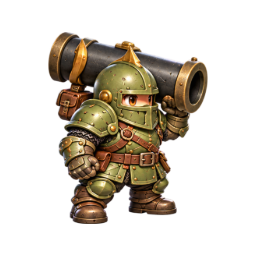
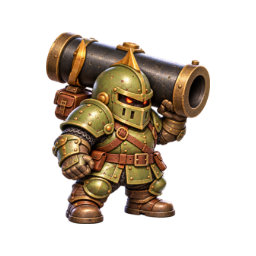
art: give deep enemy humanoids hostile faces and revise prompts

Changed region(s): [[0.1562, 0.125, 0.8438, 0.875]]

diff --git a/fushigi-enemy-c-v1/build.js b/fushigi-enemy-c-v1/build.js
@@ -27,8 +27,8 @@ function removeBackground(c){
  const full=createCanvas(original.width,original.height);full.getContext('2d').drawImage(original,0,0);removeBackground(full);
  const cc=components(full),major=cc.out.filter(o=>o.count>5000),records=[];
  for(let i=0;i<keys.length;i++){
-  const key=keys[i];let c;
-  if(i<5){
+  const key=keys[i],corrected=['ninja','caster','summoner','cannon'].includes(key),source=corrected?'source-art/'+key+'-enemy.png':i<5?'source-art/enemyC-original.png':'source-art/'+key+'.png';let c;
+  if(i<5&&!corrected){
    const [x,y,w,h]=boxes[i],chosen=major.find(o=>o.box[0]>=x&&o.box[0]<x+w&&o.box[1]>=y&&o.box[1]<y+h);
    if(!chosen)throw Error('Missing '+key);
    const keep=new Set([chosen.id]);
@@ -36,17 +36,17 @@ function removeBackground(c){
    c=createCanvas(w,h);const g=c.getContext('2d'),d=g.createImageData(w,h);
    for(let yy=0;yy<h;yy++)for(let xx=0;xx<w;xx++){const from=(y+yy)*full.width+x+xx,to=yy*w+xx;if(keep.has(cc.labels[from]))d.data.set(cc.p.subarray(from*4,from*4+4),to*4);}
    g.putImageData(d,0,0);
-  }else{const im=await loadImage(path.join(root,'source-art',key+'.png'));c=createCanvas(im.width,im.height);c.getContext('2d').drawImage(im,0,0);}
+  }else{const im=await loadImage(path.join(root,source));c=createCanvas(im.width,im.height);c.getContext('2d').drawImage(im,0,0);}
   const cs=components(c),visible=cs.out.filter(o=>o.count>=4);let x0=c.width,y0=c.height,x1=0,y1=0;
   for(const {box:b} of visible){x0=Math.min(x0,b[0]);y0=Math.min(y0,b[1]);x1=Math.max(x1,b[2]);y1=Math.max(y1,b[3]);}
   const w=x1-x0+1,h=y1-y0+1,s=Math.min(224/w,192/h),out=createCanvas(256,256),g=out.getContext('2d');
   g.imageSmoothingQuality='high';g.drawImage(c,x0,y0,w,h,128-w*s/2,224-h*s,w*s,h*s);
   const file='art/'+key+'.png',buf=out.toBuffer('image/png');fs.writeFileSync(path.join(root,file),buf);
-  records.push({key,file,width:256,height:256,anchor:[128,224],view:'SE/right-facing three-quarter',source:i<5?'source-art/enemyC-original.png':'source-art/'+key+'.png',sourceBounds:[x0,y0,w,h],scale:s,sha256:crypto.createHash('sha256').update(buf).digest('hex')});
+  records.push({key,file,width:256,height:256,anchor:[128,224],view:'SE/right-facing three-quarter',source,sourceBounds:[x0,y0,w,h],scale:s,sha256:crypto.createHash('sha256').update(buf).digest('hex')});
  }
  const hashes={};for(const f of fs.readdirSync(path.join(root,'source-art')))hashes[f]=crypto.createHash('sha256').update(fs.readFileSync(path.join(root,'source-art',f))).digest('hex');
  const ref='../fushigi-equipment-v3/assets/hero-base/SE.png';
- fs.writeFileSync(path.join(root,'manifest.json'),JSON.stringify({generator:'OpenAI image_gen',promptFile:'prompts.json',styleReference:ref,referenceSha256:crypto.createHash('sha256').update(fs.readFileSync(path.join(root,ref))).digest('hex'),sourceHashes:hashes,frames:records},null,2)+'\n');
+ fs.writeFileSync(path.join(root,'manifest.json'),JSON.stringify({generator:'OpenAI image_gen',promptFile:'prompts.json',initialPromptFile:'initial-prompt.txt',correctionPromptFile:'enemy-face-prompts.json',styleReference:ref,referenceSha256:crypto.createHash('sha256').update(fs.readFileSync(path.join(root,ref))).digest('hex'),sourceHashes:hashes,frames:records},null,2)+'\n');
  const sheet=createCanvas(1024,512),g=sheet.getContext('2d');for(let i=0;i<keys.length;i++){const im=await loadImage(path.join(root,'art',keys[i]+'.png'));g.drawImage(im,i%4*256,Math.floor(i/4)*256);}
  fs.writeFileSync(path.join(root,'enemyC.png'),sheet.toBuffer('image/png'));
  console.log('Exported 7 RGBA base sprites and enemyC sheet; anchor (128,224).');

diff --git a/tests/tools/sheets.js b/tests/tools/sheets.js
@@ -40,7 +40,7 @@ const SHEETS = [
   { id: 'bread', name: 'パン4種（小さなパン・パン・大きなパン・カビの生えたパン）', cols: 2, keys: ['bread_small', 'bread', 'bread_big', 'bread_moldy'], note: 'どれも床に置いた姿。大きさの違いが分かるように、小さなパンはマスの55%、パンは75%、大きなパンは95%、カビの生えたパンは75%の大きさにする。' },
   { id: 'enemyA', name: '敵（前半8種）', foot: true, keys: ['slime', 'goblin', 'bat', 'blob', 'skeleton', 'archer', 'thief', 'sleepy'], note: ENEMY_NOTE },
   { id: 'enemyB', name: '敵（後半7種）', foot: true, keys: ['bomb', 'ogre', 'dazzle', 'venom', 'ghost', 'minotaur', 'dragon'], note: ENEMY_NOTE },
-  { id: 'enemyC', name: '敵（深層6種＋主）', foot: true, keys: ['ninja', 'caster', 'mimic', 'summoner', 'charged', 'cannon', 'lord'], note: ENEMY_NOTE },
+  { id: 'enemyC', name: '敵（深層6種＋主）', foot: true, keys: ['ninja', 'caster', 'mimic', 'summoner', 'charged', 'cannon', 'lord'], note: '全員、右向きで斜め前から見た全身。足元が下で、マスの高さいっぱいに描く。丸みのあるデフォルメだが、敵モンスターと一目で分かる険しく邪悪な顔つき。細く鋭い目、小さい瞳、険しい眉、狡猾な薄笑い、帽子や兜の奥の暗い顔。ニンジャは鋭いにらみ、まじゅつ師はうつろで不気味な目、すず坊主は邪悪な妖怪僧、おおづつ兵は兜の奥でにらむ目。大きく丸い味方風の瞳・長いまつ毛・頬の赤み・無邪気な笑顔は描かない。流血や生々しいホラーは不要。' },
 ];
 const sheetCols = sh => sh.cols || 4;
 const sheetRows = sh => Math.ceil(sh.keys.length / sheetCols(sh));

diff --git a/fushigi-enemy-c-v1/check.py b/fushigi-enemy-c-v1/check.py
@@ -1,0 +1,26 @@
+import json
+from pathlib import Path
+from playwright.sync_api import sync_playwright
+
+ROOT = Path(__file__).resolve().parent
+with sync_playwright() as p:
+    browser = p.chromium.launch(headless=True, args=['--no-sandbox'])
+    page = browser.new_page(viewport={'width':1120, 'height':1000}, device_scale_factor=1)
+    errors=[]
+    page.on('pageerror', lambda e: errors.append(str(e)))
+    page.goto('http://127.0.0.1:8011/fushigi-enemy-c-v1/preview.html')
+    page.wait_for_function('Array.from(document.images).every(i=>i.complete&&i.naturalWidth)')
+    page.screenshot(path=str(ROOT/'preview-desktop.png'), full_page=True)
+    results={'images':page.locator('img').count(),'errors':errors,'sizes':{}}
+    for key in ['ninja','caster','mimic','summoner','charged','cannon','lord']:
+        results['sizes'][key]=page.evaluate('''async k=>{const im=new Image();im.src='art/'+k+'.png';await im.decode();const c=document.createElement('canvas');c.width=c.height=256;const g=c.getContext('2d');g.drawImage(im,0,0);const a=g.getImageData(0,0,256,256).data;let count=0,edge=0;for(let y=0;y<256;y++)for(let x=0;x<256;x++)if(a[(y*256+x)*4+3]>40){count++;if(x<4||x>251||y<4||y>251)edge++;}return{width:im.width,height:im.height,visiblePixels:count,edgePixels:edge};}''',key)
+    page.set_viewport_size({'width':390,'height':844})
+    page.screenshot(path=str(ROOT/'preview-mobile.png'),full_page=True)
+    assert page.evaluate('document.documentElement.scrollWidth<=innerWidth')
+    page.locator('#bg').check()
+    page.screenshot(path=str(ROOT/'preview-light.png'),full_page=True)
+    assert all(v['edgePixels']==0 and v['visiblePixels']>8000 for v in results['sizes'].values())
+    assert not errors
+    (ROOT/'validation.json').write_text(json.dumps(results,indent=2)+'\n')
+    print('7 RGBA sprites; no edge clipping, overflow or browser errors.')
+    browser.close()

diff --git a/docs/HANDOVER.md b/docs/HANDOVER.md
@@ -4,6 +4,8 @@
 
 ## 1. 結論（いまの状態）
 
+- **enemyCの敵らしい表情への修正（2026-10-23）**：初稿が味方顔というユーザー指摘を受け、人型4種（ニンジャ・まじゅつ師・すず坊主・おおづつ兵）を各初稿参照で描き直し。細い鋭い目・険しい眉・不気味な薄笑いへ。透過基準絵と比較ページを更新。今後の生成用 `sheets.js prompt enemyC` も敵の表情を明記。PR #38へ追記、main公開／本編差し替えは未実施。
+
 - **enemyCの7体の基準絵（2026-10-23、制作ブランチ）**：ユーザー指定の `node tests/tools/sheets.js prompt enemyC` を起点に、ニンジャ・まじゅつ師・ミミック・すず坊主・いかずち岩・おおづつ兵・アビスロードを生成。ラナv3のSE絵を画風参照。`fushigi-enemy-c-v1/art/` に透過256pxの1方向基準絵、同フォルダに原画・全指示・ハッシュ・再現スクリプト・縮小比較ページ。足元(128,224)。今回はデザイン用の基準絵で、8方向・動作・上位色・本編の差し替えは未実施。描画や敵の仕様は変更なし。main公開は未実施。
 
 - **生成版モンスターハウスv2（2026-10-23、ユーザー反映許可済み）**：ユーザー不採用の旧アイコン/帯を使わず、透過の深紅ドクロの顔・MONSTER HOUSE・赤い下線を生成。別生成の8コマの赤い霧を補間し、炎のようにドクロと文字へ重ねる。黒い背景板なし。`fushigi-monster-house-v2/` に原画・生成記録・再構築・別セーブ確認・3秒動画。表示2200ms、敵の応答は終了後1ターン。3画面と保存/入力停止を確認。ユーザーの「まあいいや反映して」により、この生成版のmain反映・公開を許可済み。成長/強化/罠9種はPR #36でmain反映・Pages成功確認済み。

diff --git a/fushigi-enemy-c-v1/README.md b/fushigi-enemy-c-v1/README.md
@@ -1,5 +1,9 @@
 # enemyC：深層6系統＋アビスロードの基準絵
 
+## 敵の顔つきへの修正
+
+ユーザーの「各種敵キャラであることを意識して。顔つきが味方キャラになっている」を受け、ニンジャ・まじゅつ師・すず坊主・おおづつ兵を各初稿PNG参照で再生成。細く鋭い目、険しい眉、不気味な顔・薄笑いへ変更。大きな瞳と頬の赤みを抑え、立体感・装備・斜め上からの右向き視点は維持。ミミック・いかずち岩・アビスロードは既存の怪物の顔を維持。各修正の全指示と参照は `enemy-face-prompts.json`、参照PNGと原画は `source-art/`。今後の生成でも味方顔に戻らないよう `sheets.js prompt enemyC` の表情指定も修正。
+
 2026-10-23。ユーザー指定の `node tests/tools/sheets.js prompt enemyC` を起点に、OpenAI image_gen で7体を制作。ラナの採用済みSE絵を画風の参照に使用。
 
 - `art/`：7体の256×256 RGBA基準絵。足元原点(128,224)、外形高さ最大192px、幅最大224px。右向き斜め前の1方向。
